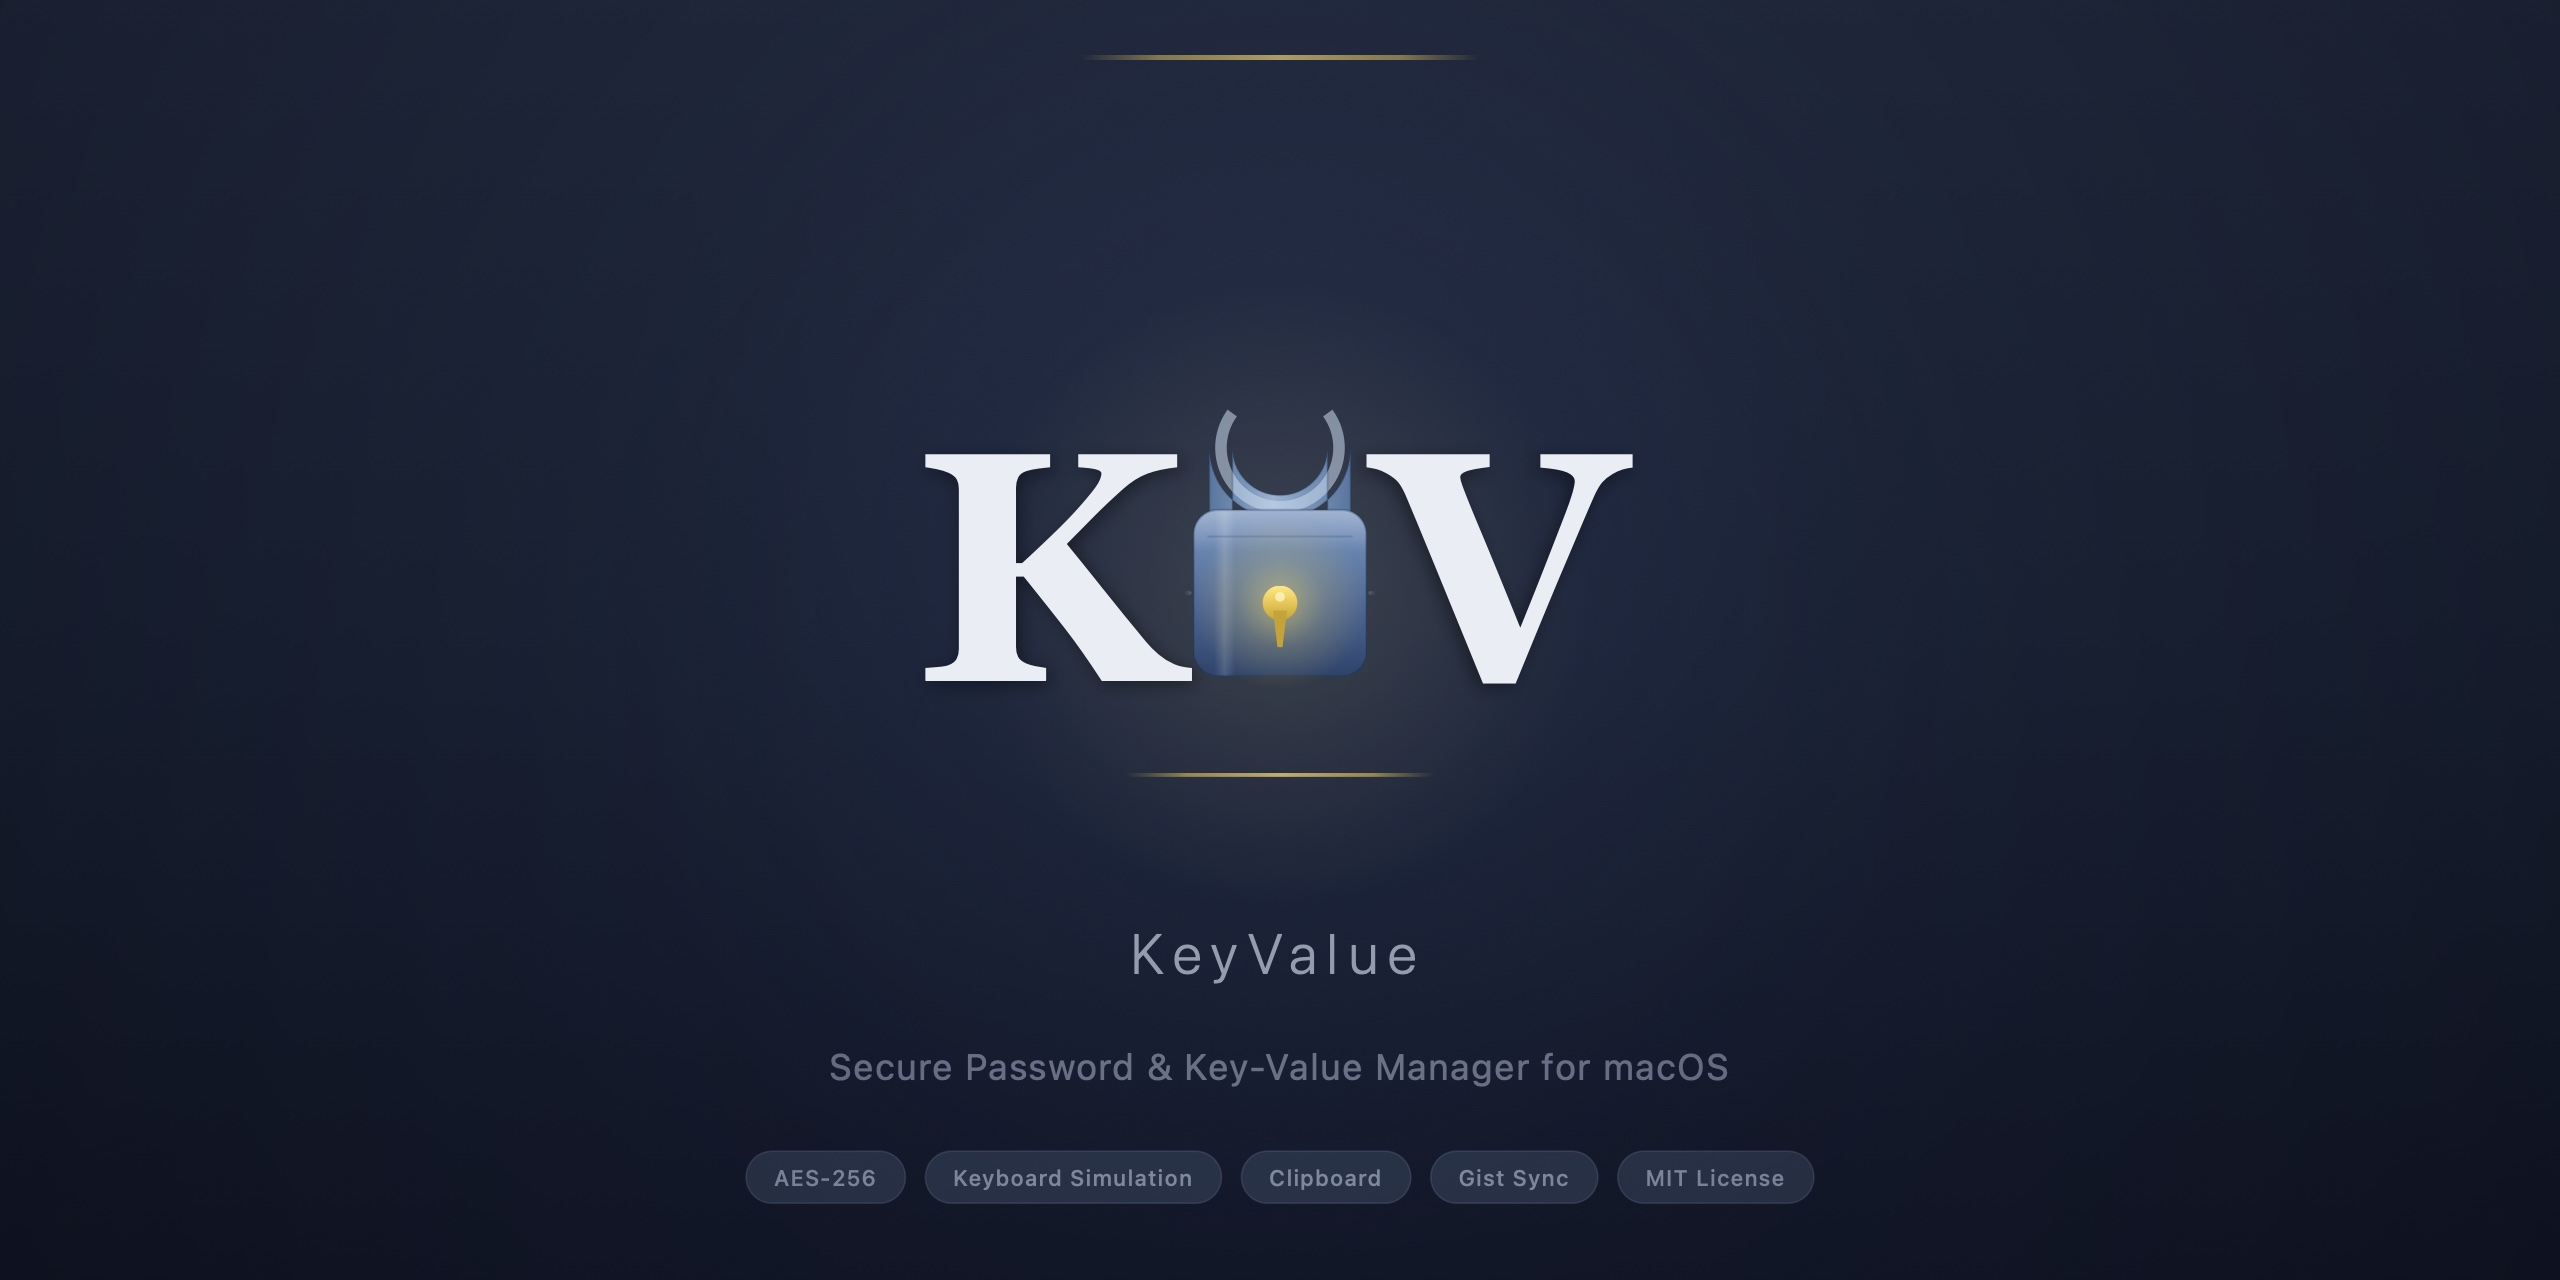
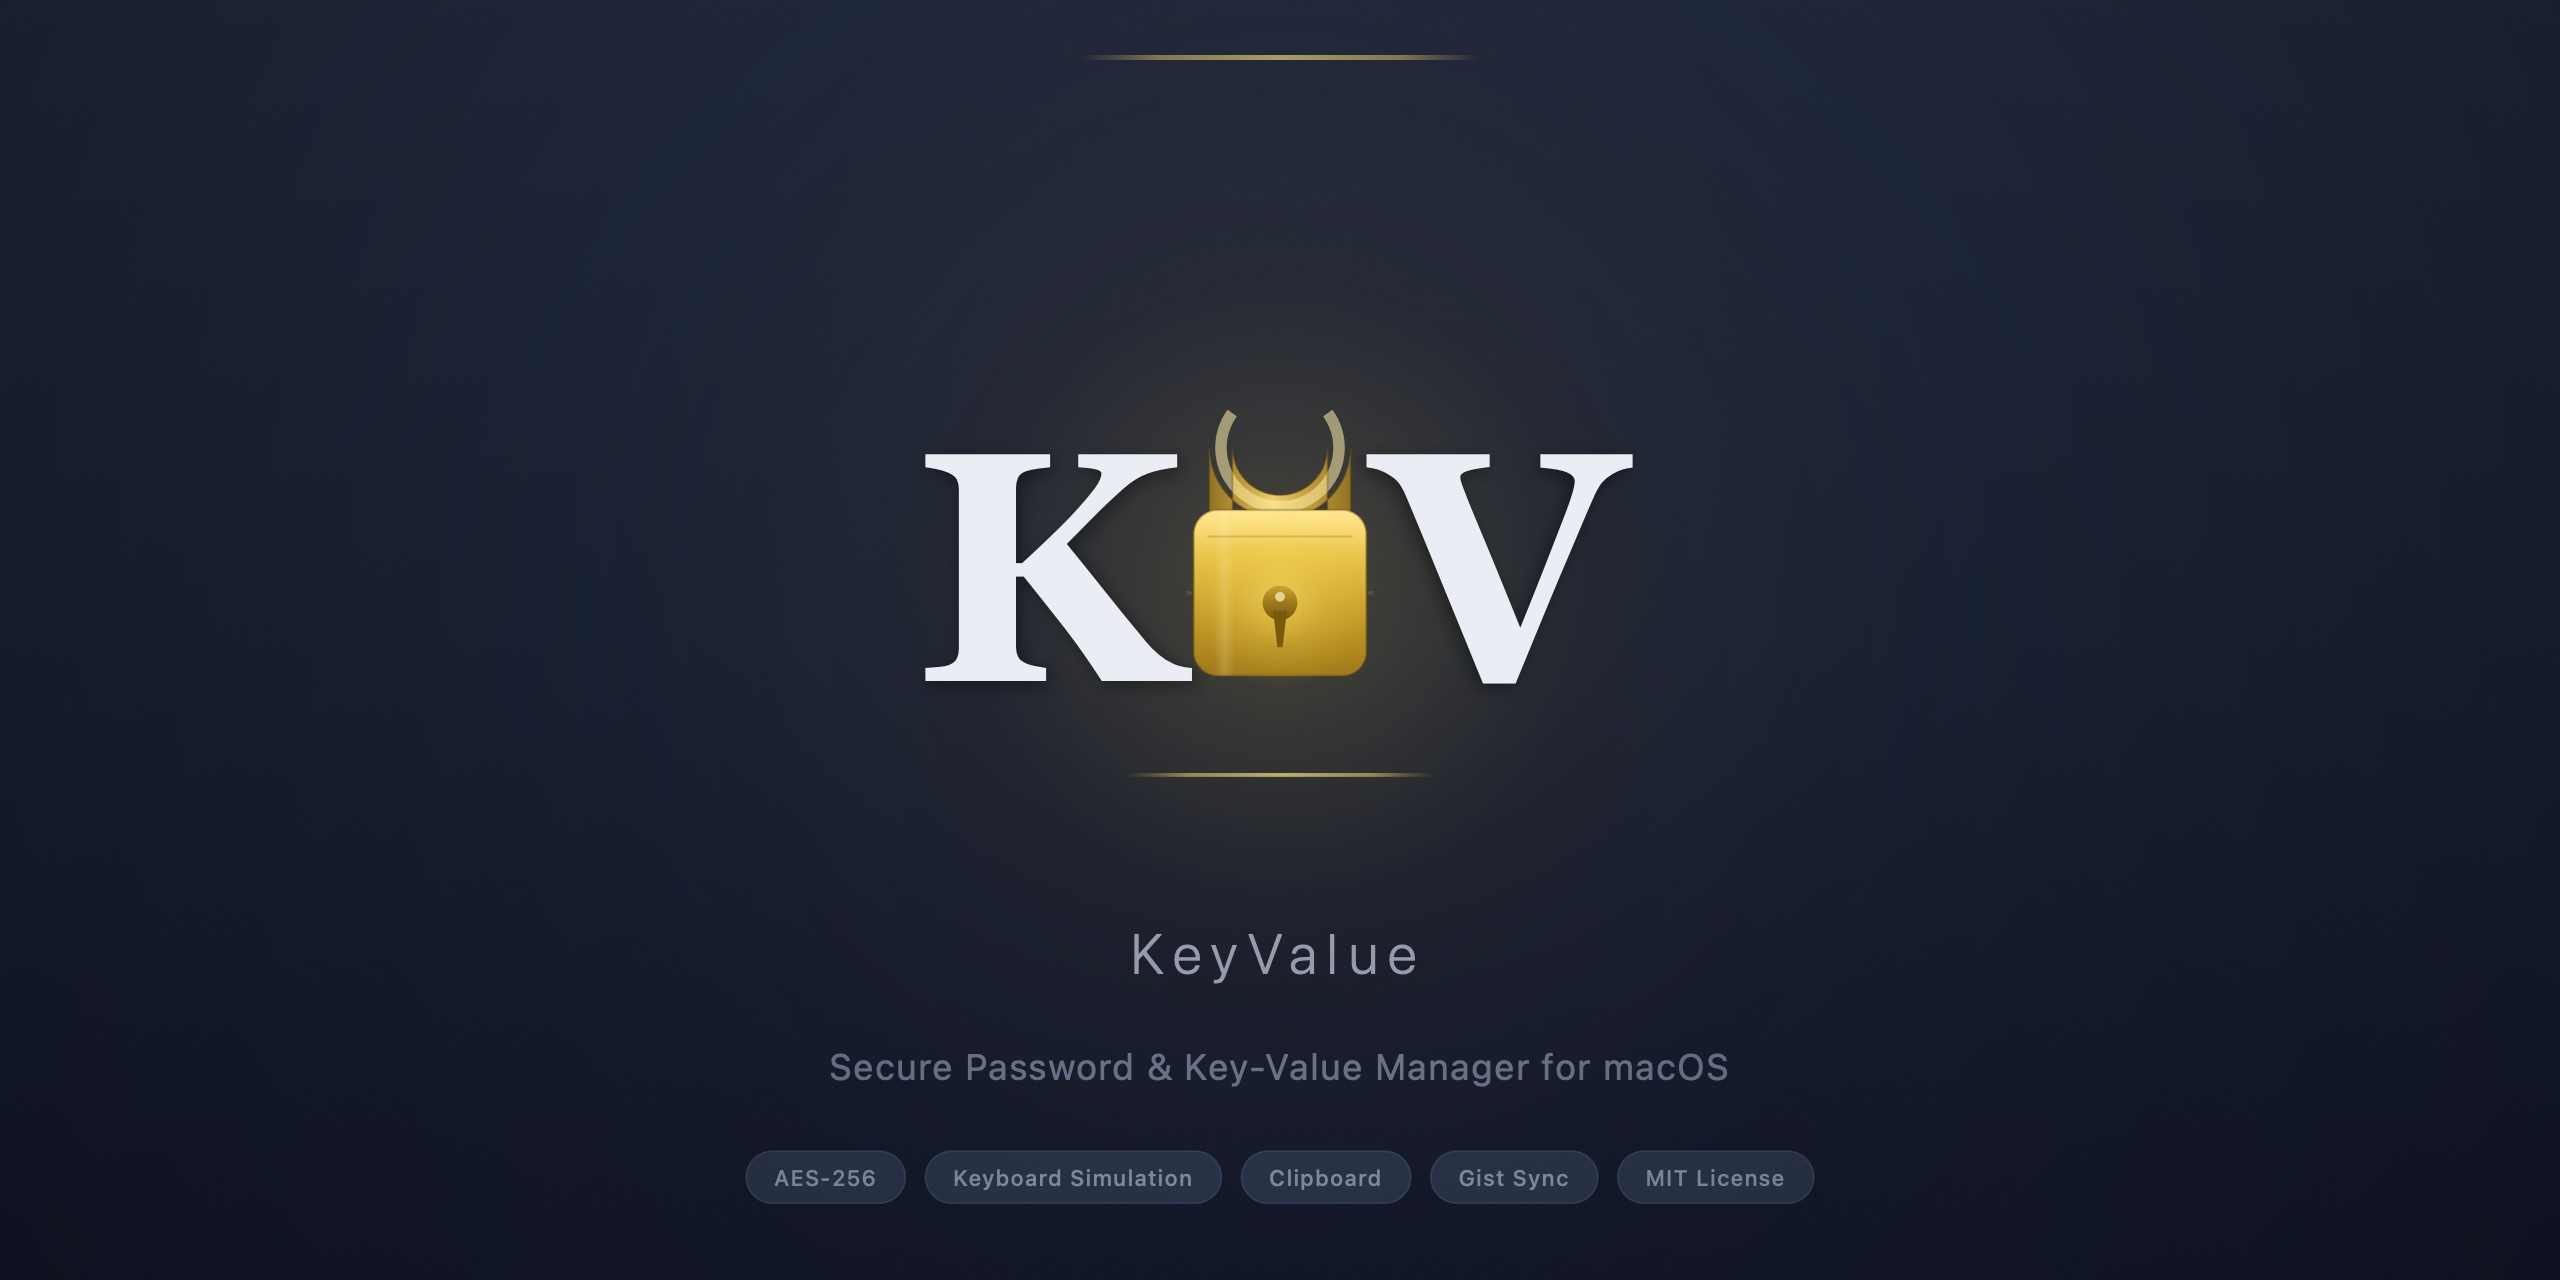
release: v0.1.0

Changed region(s): [[0.4375, 0.3125, 0.5625, 0.5312]]

diff --git a/scripts/generate_social_preview.swift b/scripts/generate_social_preview.swift
@@ -137,7 +137,7 @@ func drawKLockV(ctx: CGContext, cx: CGFloat, cy: CGFloat, scale s: CGFloat) {
                         radius: (shackleOuterR + shackleInnerR) / 2,
                         startAngle: .pi * 0.80, endAngle: .pi * 0.20,
                         clockwise: false)
-    ctx.setStrokeColor(CGColor(red: 0.75, green: 0.82, blue: 0.92, alpha: 0.55))
+    ctx.setStrokeColor(CGColor(red: 1.00, green: 0.92, blue: 0.60, alpha: 0.55))
     ctx.setLineWidth(shackleBarW * 0.50)
     ctx.setLineCap(.butt)
     ctx.addPath(shackleHlArc)
@@ -147,7 +147,7 @@ func drawKLockV(ctx: CGContext, cx: CGFloat, cy: CGFloat, scale s: CGFloat) {
     // Shackle border
     ctx.saveGState()
     ctx.addPath(shackleFill)
-    ctx.setStrokeColor(CGColor(red: 0.10, green: 0.16, blue: 0.30, alpha: 0.25))
+    ctx.setStrokeColor(CGColor(red: 0.35, green: 0.25, blue: 0.05, alpha: 0.35))
     ctx.setLineWidth(s * 0.002)
     ctx.strokePath()
     ctx.restoreGState()
@@ -179,8 +179,8 @@ func drawKLockV(ctx: CGContext, cx: CGFloat, cy: CGFloat, scale s: CGFloat) {
     ctx.clip()
     let topHlGrad = CGGradient(colorsSpace: CGColorSpaceCreateDeviceRGB(),
                                colors: [
-                                   CGColor(red: 1, green: 1, blue: 1, alpha: 0.28),
-                                   CGColor(red: 1, green: 1, blue: 1, alpha: 0.0),
+                                   CGColor(red: 1.00, green: 0.95, blue: 0.75, alpha: 0.35),
+                                   CGColor(red: 1.00, green: 0.92, blue: 0.65, alpha: 0.0),
                                ] as CFArray, locations: [0.0, 1.0])!
     ctx.drawLinearGradient(topHlGrad,
                            start: CGPoint(x: cx, y: lockBodyTopY),
@@ -196,9 +196,9 @@ func drawKLockV(ctx: CGContext, cx: CGFloat, cy: CGFloat, scale s: CGFloat) {
     let specW = lockBodyW * 0.12
     let specGrad = CGGradient(colorsSpace: CGColorSpaceCreateDeviceRGB(),
                               colors: [
-                                  CGColor(red: 1, green: 1, blue: 1, alpha: 0.0),
-                                  CGColor(red: 1, green: 1, blue: 1, alpha: 0.15),
-                                  CGColor(red: 1, green: 1, blue: 1, alpha: 0.0),
+                                  CGColor(red: 1.00, green: 0.95, blue: 0.70, alpha: 0.0),
+                                  CGColor(red: 1.00, green: 0.95, blue: 0.70, alpha: 0.20),
+                                  CGColor(red: 1.00, green: 0.95, blue: 0.70, alpha: 0.0),
                               ] as CFArray, locations: [0.0, 0.5, 1.0])!
     ctx.drawLinearGradient(specGrad,
                            start: CGPoint(x: specX, y: lockBodyCY),
@@ -209,7 +209,7 @@ func drawKLockV(ctx: CGContext, cx: CGFloat, cy: CGFloat, scale s: CGFloat) {
     // Body border
     ctx.saveGState()
     ctx.addPath(lbPath)
-    ctx.setStrokeColor(CGColor(red: 0.10, green: 0.16, blue: 0.28, alpha: 0.30))
+    ctx.setStrokeColor(CGColor(red: 0.35, green: 0.25, blue: 0.05, alpha: 0.35))
     ctx.setLineWidth(s * 0.0025)
     ctx.strokePath()
     ctx.restoreGState()
@@ -219,7 +219,7 @@ func drawKLockV(ctx: CGContext, cx: CGFloat, cy: CGFloat, scale s: CGFloat) {
     ctx.saveGState()
     ctx.move(to: CGPoint(x: cx - lockBodyW * 0.42, y: divY))
     ctx.addLine(to: CGPoint(x: cx + lockBodyW * 0.42, y: divY))
-    ctx.setStrokeColor(CGColor(red: 0.08, green: 0.14, blue: 0.28, alpha: 0.20))
+    ctx.setStrokeColor(CGColor(red: 0.35, green: 0.25, blue: 0.05, alpha: 0.25))
     ctx.setLineWidth(s * 0.002)
     ctx.strokePath()
     ctx.restoreGState()
@@ -346,8 +346,8 @@ func drawKLockV(ctx: CGContext, cx: CGFloat, cy: CGFloat, scale s: CGFloat) {
         ctx.saveGState()
         let g = CGGradient(colorsSpace: CGColorSpaceCreateDeviceRGB(),
                            colors: [
-                               CGColor(red: 0.55, green: 0.60, blue: 0.72, alpha: 0.0),
-                               CGColor(red: 0.55, green: 0.60, blue: 0.72, alpha: 0.30),
+                               CGColor(red: 0.72, green: 0.58, blue: 0.22, alpha: 0.0),
+                               CGColor(red: 0.72, green: 0.58, blue: 0.22, alpha: 0.30),
                            ] as CFArray, locations: [0.0, 1.0])!
         ctx.addPath(roundedRectPath(rect, radius: connH / 2))
         ctx.clip()
@@ -366,8 +366,8 @@ func drawKLockV(ctx: CGContext, cx: CGFloat, cy: CGFloat, scale s: CGFloat) {
         ctx.saveGState()
         let g = CGGradient(colorsSpace: CGColorSpaceCreateDeviceRGB(),
                            colors: [
-                               CGColor(red: 0.55, green: 0.60, blue: 0.72, alpha: 0.30),
-                               CGColor(red: 0.55, green: 0.60, blue: 0.72, alpha: 0.0),
+                               CGColor(red: 0.72, green: 0.58, blue: 0.22, alpha: 0.30),
+                               CGColor(red: 0.72, green: 0.58, blue: 0.22, alpha: 0.0),
                            ] as CFArray, locations: [0.0, 1.0])!
         ctx.addPath(roundedRectPath(rect, radius: connH / 2))
         ctx.clip()
@@ -448,8 +448,8 @@ ctx.restoreGState()
 // Subtle radial glow behind the icon area
 let glowGrad = CGGradient(colorsSpace: CGColorSpaceCreateDeviceRGB(),
                           colors: [
-                              CGColor(red: 0.18, green: 0.22, blue: 0.38, alpha: 0.30),
-                              CGColor(red: 0.10, green: 0.12, blue: 0.20, alpha: 0.0),
+                              CGColor(red: 0.30, green: 0.24, blue: 0.10, alpha: 0.30),
+                              CGColor(red: 0.12, green: 0.10, blue: 0.06, alpha: 0.0),
                           ] as CFArray,
                           locations: [0.0, 1.0])!
 
